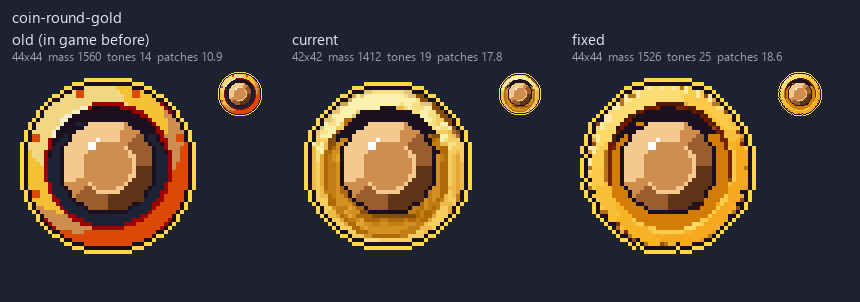
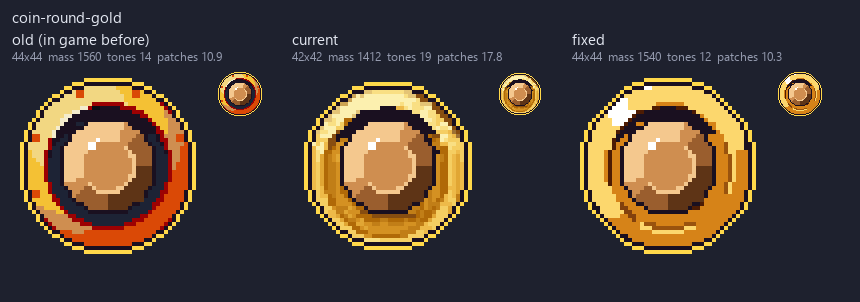
Art drafts: palette rule in the restyle pilot (3 flat tones per material, ~16 colours, PixelLab max_colors)

diff --git a/design/pixel/concept-sheet-1-new/restyle.py b/design/pixel/concept-sheet-1-new/restyle.py
@@ -3,8 +3,8 @@
 PixelLab draws; this only:
   1. keys out anything not fully opaque and the pale halo (light, low-saturation pixels on the
      silhouette edge that are not part of the art),
-  2. cuts the palette only when PixelLab used more than `TONES` colours (no dither), and gives a lone
-     pixel (no same-colour neighbour) the majority colour of its 3 x 3 neighbourhood,
+  2. applies the palette rule (cel_palette): per material at most 3 flat tones plus a white glint,
+     about 16 colours per sprite, then merges the 1-2 px specks the snapping leaves (islands),
   3. snaps PixelLab's own dark outline to the game ink (#1a1020), adds ink only where the edge has a
      gap (never a second line, which would eat thin blades), and puts the light rim outside it
      (card items: the rarity window colour mixed 30% to white, as the game's items, plus the old
@@ -13,7 +13,7 @@ PixelLab draws; this only:
   4. prints footprint / flatness numbers next to the old counterpart (footprint.py).
 
 Usage: py design/pixel/concept-sheet-1-new/restyle.py <raw.png> <out.png> <kind> [<old.png> [<gem shape>]]
-  kind: item-<rarity> | coin-<tier> | sticker. A generation smaller than the old sprite is padded to
+  kind: item-<rarity> | unique-<window rarity> | coin-<tier> | sticker. A generation smaller than the old sprite is padded to
   its canvas (drawn smaller on purpose to match the old footprint).
 """
 from __future__ import annotations
@@ -34,7 +34,11 @@ _fp = importlib.util.spec_from_file_location("footprint", HERE / "footprint.py")
 F = importlib.util.module_from_spec(_fp)
 _fp.loader.exec_module(F)
 
-TONES = {"item": 24, "coin": 20, "sticker": 20}  # kept high enough that small accents (a gold guard) survive
+# The palette rule (user, 2026-11-08): per material at most 3 flat tones (shadow, base, light) plus one
+# white glint; about 16 colours per sprite with ink and rim, about 20 for the busiest Uniques; hard
+# steps only (no blend tones, dithering, gradients or noise). MATERIALS is how many materials a sprite
+# may have: 3 tones each + ink + white glint + rim (+ sparkles, also white).
+MATERIALS = {"item": 4, "unique": 5, "coin": 3, "sticker": 4}
 
 
 def ink_edge(a: np.ndarray) -> np.ndarray:
@@ -100,6 +104,95 @@ def majority(a: np.ndarray, passes: int = 2) -> np.ndarray:
     return a
 
 
+def cel_palette(a: np.ndarray, materials: int) -> np.ndarray:
+    """Snaps every colour pixel (not ink, not the white glint) to at most 3 flat tones per material.
+
+    Materials are found by hue and chroma (k-means on Lab a*, b* and a little L*), so a gold guard
+    stays apart from a silver blade; inside a material the pixels are split by lightness into shadow,
+    base and light, each tone the mean colour of its pixels, and tones closer than 9 L* apart merge,
+    so the steps stay clearly separated. Near-white pixels become the one white glint, and near-black
+    neutral ones (L* under 14, chroma under 10) the ink, which keeps the lines between parts without
+    swallowing a dark coloured material (a deep purple grip)."""
+    from skimage.color import lab2rgb, rgb2lab
+    from sklearn.cluster import KMeans
+
+    out = a.copy()
+    rgb = a[..., :3]
+    op = a[..., 3] > 0
+    lab = rgb2lab(rgb.astype(float) / 255)
+    # near-black pixels inside are PixelLab's part lines: they become ink, so parts stay separated
+    out[op & (lab[..., 0] < 14) & (np.hypot(lab[..., 1], lab[..., 2]) < 10), :3] = P.INK
+    ink = (out[..., :3] == np.array(P.INK)).all(-1)
+    glint = op & ~ink & (lab[..., 0] > 92) & (np.hypot(lab[..., 1], lab[..., 2]) < 12)
+    out[glint, :3] = 255
+    m = op & ~ink & ~glint
+    if m.sum() < 8:
+        return out
+    X = lab[m]
+    feats = np.column_stack([X[:, 1], X[:, 2], X[:, 0] * 0.35])
+    k = min(materials, len(np.unique(feats.round(1), axis=0)))
+    mat = KMeans(n_clusters=k, n_init=4, random_state=0).fit_predict(feats)
+    tones = np.zeros_like(X)
+    for c in range(k):
+        sel = mat == c
+        L = X[sel, 0].reshape(-1, 1)
+        n = min(3, len(np.unique(L.round(0))))
+        lab_c = KMeans(n_clusters=n, n_init=4, random_state=0).fit(L)
+        order = np.argsort(lab_c.cluster_centers_[:, 0])
+        rank = np.empty(n, int)
+        rank[order] = np.arange(n)
+        groups = rank[lab_c.labels_]
+        means = [X[sel][groups == g].mean(0) for g in range(n)]
+        # merge steps closer than 9 L*, so every step reads
+        merged = [means[0]]
+        for t in means[1:]:
+            if t[0] - merged[-1][0] < 9:
+                merged[-1] = (merged[-1] + t) / 2
+            else:
+                merged.append(t)
+        cent = np.array(merged)
+        idx = np.abs(X[sel, 0][:, None] - cent[None, :, 0]).argmin(1)
+        tones[sel] = cent[idx]
+    out_rgb = (lab2rgb(tones[None])[0] * 255).round().clip(0, 255).astype(np.uint8)
+    out[m, :3] = out_rgb
+    return out
+
+
+def islands(a: np.ndarray, max_size: int = 2, passes: int = 3) -> np.ndarray:
+    """Specks of 1-2 pixels of one colour (left by the snapping) take the colour most of their
+    neighbours have. White glints and the ink stay as drawn."""
+    from skimage import measure
+
+    for _ in range(passes):
+        out = a.copy()
+        op = a[..., 3] > 0
+        key = (a[..., 0].astype(int) << 16) | (a[..., 1].astype(int) << 8) | a[..., 2]
+        key = np.where(op, key, -1)
+        changed = False
+        for k in np.unique(key[op]):
+            if k in (0xFFFFFF, (P.INK[0] << 16) | (P.INK[1] << 8) | P.INK[2]):
+                continue
+            lab = measure.label(key == k, connectivity=1)
+            for r in measure.regionprops(lab):
+                if r.area > max_size:
+                    continue
+                cnt: Counter = Counter()
+                for y, x in r.coords:
+                    for dx, dy in P.N8:
+                        yy, xx = y + dy, x + dx
+                        if 0 <= yy < key.shape[0] and 0 <= xx < key.shape[1] and key[yy, xx] not in (-1, k):
+                            cnt[key[yy, xx]] += 1
+                if cnt:
+                    best = cnt.most_common(1)[0][0]
+                    for y, x in r.coords:
+                        out[y, x, :3] = ((best >> 16) & 255, (best >> 8) & 255, best & 255)
+                    changed = True
+        a = out
+        if not changed:
+            break
+    return a
+
+
 def pad_to(a: np.ndarray, size: tuple[int, int], centre: tuple[float, float]) -> np.ndarray:
     """Places a smaller generation on the game canvas (transparent padding, never a rescale), with
     its content centred where the old sprite's content sits."""
@@ -121,22 +214,21 @@ def clean(raw: np.ndarray, kind: str, gem: str | None = None, old: np.ndarray | 
     a = unhalo(a)
     a = P.drop_specks(a, 6)
     base = kind.split("-")[0]
-    a = P.quantize(a, TONES[base])
-    a = majority(a, 2)
     if base == "coin":
-        # the round silhouette of the old coins (44 px with the ring), and the resource's gem back
-        # in the centre (DESIGN Ã‚Â§12 "Resources are carved gems")
+        # the round silhouette of the old coins (44 px with the ring)
         a = P.disc(a, 20.5)
-        a = ink_edge(a)
+    # the ink outline (PixelLab's own, snapped to the game ink, gaps filled), then the palette rule
+    a = ink_edge(a)
+    a = islands(cel_palette(a, MATERIALS[base]))
+    if base == "coin":
+        # the resource's gem back in the centre (DESIGN §12 "Resources are carved gems")
         if gem:
             a = P.over(a, P.gem_layer(gem, kind.endswith("locked")))
         return P.ring(a, P.hexrgb(P.COIN_RING["stone" if kind.endswith("locked") else kind.split("-", 1)[1]]))
-    # the ink outline (PixelLab's own, snapped to the game ink, gaps filled); then one rim pixel outside
-    a = ink_edge(a)
-    if base == "item" and old is not None and not kind.endswith("common"):
+    if base in ("item", "unique") and old is not None and not kind.endswith("common"):
         # the old counterpart's plus sparkles, where they float free of the new item
         a = P.add_sparkles(a, P.free_sparkles(old))
-    if base == "item":
+    if base in ("item", "unique"):
         return P.ring(a, P.mix(P.RARITY_WINDOW[kind.split("-", 1)[1]], "#ffffff", 0.3), skip_white=True)
     return P.ring(a, P.WHITE)
 

diff --git a/.claude/skills/pixel-art/references/technique.md b/.claude/skills/pixel-art/references/technique.md
@@ -140,4 +140,6 @@ Learned on the concept sheet 1 passes (2026-11-08), when the user found the firs
 - **Pro's canvas is its size control.** From 86 px up it returns 4 candidates that fill the canvas edge to edge; from 65 to 84 px it returns 9 with a margin, at about 70-80% of the canvas. So to match an old sprite's footprint, generate on a smaller canvas and pad (never rescale) to the game size, centred on the old sprite's centre. Measure bbox and opaque mass against the old counterpart (`design/pixel/concept-sheet-1-new/footprint.py`).
 - **Match mass, not only the box.** Concept weapons have heavy heads and thick shafts; at the old bounding box they read much bigger than our thin-shafted items. Matching opaque-pixel mass within about 10% is what makes them look the same size, even if the new sprite ends up a little shorter.
 - **Clean up gently.** Pro already draws a dark outline: snap its dark edge pixels to the ink `#1a1020` and add ink only where the edge is light. Never convert the outermost pixels to ink on top, which doubles the line and eats thin blades. Cut the palette only to about 24 tones: harder median-cut quantising wipes out small accents such as a gold guard. Fix only truly lone pixels. Pro's leftover single pixels are mostly deliberate texture (wood grain, grip wrap), not blending.
+- **The palette rule (user, 2026-11-08).** Too many shading colours and blend tones were the other half of the "blended" look. Per material at most 3 flat tones (shadow, base, light) plus one white glint; about 16 colours per sprite with ink and rim (about 20 for the busiest Uniques); hard steps only, no in-between tones, dithering, gradients or noise. Ask PixelLab for it at generation time (`max_colors` 16, 20 for Uniques, 12 for a coin body, and "flat cel shading with hard steps, 3 tones per material, no dithering" in the prompt): it then designs the flat shapes itself. Snapping a full-colour result down afterwards makes blotchy shapes. Then group colours into materials (hue and chroma), keep at most 3 tones each, merge the 1-2 px specks, and keep near-black neutral pixels as ink part lines. Too wide an ink threshold swallows dark coloured materials such as a deep purple grip.
+- **`max_colors` changes pro's sizing.** With it, 100 x 120 filled edge to edge again and so did 66 x 80, while 60 x 76 and 72 x 92 left a wide margin. Measure every batch's bbox and mass before cleaning; do not assume the band.
 - **`correct_pixelart` did not help here.** It returns more near-duplicate colours and no visible change on pro output.

diff --git a/design/pixel/concept-sheet-1-new/pilot/numbers.md b/design/pixel/concept-sheet-1-new/pilot/numbers.md
@@ -2,19 +2,19 @@
 |---|---|---|---|---|---|---|
 | item-katana-epic | old (in game before) | 65x99 | 1506 | 35 | 1.3 | 42.5 |
 | item-katana-epic | current | 81x105 | 1526 | 25 | 0.0 | 32.1 |
-| item-katana-epic | fixed | 69x101 | 1333 | 27 | 7.7 | 44.0 |
+| item-katana-epic | fixed | 68x102 | 1515 | 13 | 0.0 | 19.6 |
 | item-staff-epic | old (in game before) | 62x93 | 1163 | 35 | 4.2 | 26.4 |
 | item-staff-epic | current | 89x103 | 2513 | 26 | 0.0 | 29.8 |
-| item-staff-epic | fixed | 62x79 | 1153 | 26 | 9.6 | 46.7 |
+| item-staff-epic | fixed | 62x78 | 986 | 12 | 0.0 | 19.2 |
 | item-book-epic | old (in game before) | 70x98 | 4913 | 27 | 0.8 | 14.4 |
 | item-book-epic | current | 75x90 | 6651 | 26 | 0.0 | 7.6 |
-| item-book-epic | fixed | 69x69 | 3296 | 26 | 2.2 | 21.0 |
+| item-book-epic | fixed | 67x67 | 3199 | 12 | 0.0 | 9.1 |
 | item-maul-epic | old (in game before) | 72x93 | 1631 | 46 | 1.5 | 26.4 |
 | item-maul-epic | current | 68x95 | 2837 | 15 | 0.0 | 17.4 |
-| item-maul-epic | fixed | 72x74 | 1623 | 27 | 10.7 | 49.5 |
+| item-maul-epic | fixed | 72x70 | 1676 | 13 | 0.1 | 14.8 |
 | evo-bronze_hammer | old (in game before) | 80x105 | 2012 | 34 | 1.1 | 32.1 |
 | evo-bronze_hammer | current | 95x102 | 3780 | 16 | 0.0 | 23.6 |
-| evo-bronze_hammer | fixed | 78x97 | 2371 | 27 | 14.4 | 44.8 |
+| evo-bronze_hammer | fixed | 79x97 | 2517 | 11 | 0.2 | 13.3 |
 | coin-round-gold | old (in game before) | 44x44 | 1560 | 14 | 0.1 | 10.9 |
 | coin-round-gold | current | 42x42 | 1412 | 19 | 0.0 | 17.8 |
-| coin-round-gold | fixed | 44x44 | 1526 | 25 | 3.7 | 18.6 |
+| coin-round-gold | fixed | 44x44 | 1540 | 12 | 0.1 | 10.3 |
